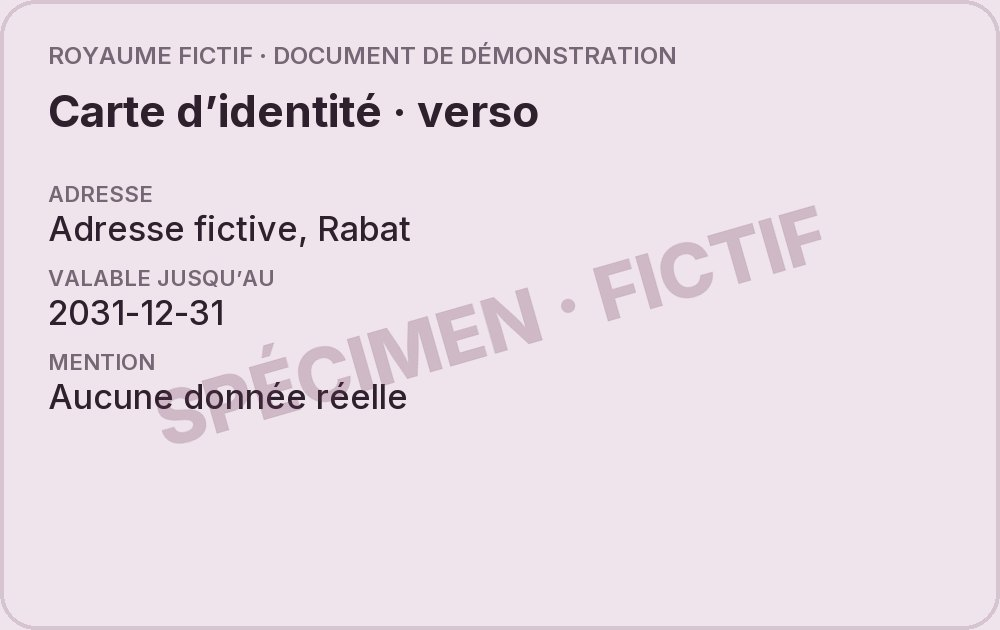
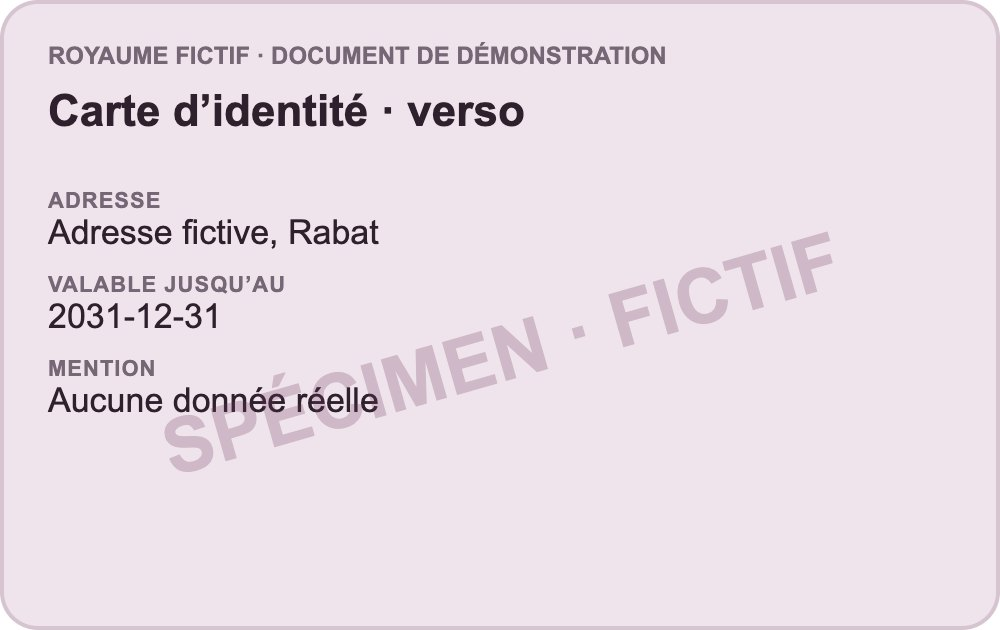
feat(assets): replace AI imagery with original vector art
- Delete the AI illustrations, characters, avatars and car renders; they no
  longer ship in the apps.
- Contextual vector spot illustrations (schedule, verified, support,
  earnings, journey, wallet, drive) and the car in side and top view, in
  theme colours for light and dark.
- Every logo concept gets app icon, horizontal, light, dark and monochrome
  versions.
- Demo identity documents, selfies and vehicle photos are redrawn in vector
  by scripts/generate-fixtures.mjs (replaces the Python script).

diff --git a/packages/assets/src/spots.ts b/packages/assets/src/spots.ts
@@ -1,0 +1,49 @@
+/**
+ * Original vector spot illustrations, one per context. Drawn in-house from simple shapes in the
+ * brand colours, so they follow the theme (light and dark) and contain no generated imagery.
+ */
+export type Spot = 'journey' | 'schedule' | 'verified' | 'support' | 'earnings' | 'wallet' | 'drive' | 'car';
+
+/** Width / height of each spot; the car is wider than the scenes. */
+export const spotAspect = (spot: Spot) => (spot === 'car' ? 320 / 180 : 320 / 240);
+
+const halo = (a: string) =>
+  `<ellipse cx="160" cy="130" rx="132" ry="98" fill="${a}" opacity=".07"/><circle cx="44" cy="62" r="5" fill="${a}" opacity=".25"/><circle cx="282" cy="46" r="4" fill="${a}" opacity=".2"/><circle cx="290" cy="206" r="6" fill="${a}" opacity=".14"/>`;
+
+const scenes: Record<Exclude<Spot, 'car'>, (a: string, s: string) => string> = {
+  // A route on a city map, from a pickup dot to a destination pin.
+  journey: (a, s) =>
+    `<rect x="50" y="46" width="220" height="152" rx="22" fill="${s}" stroke="${a}" stroke-width="4"/><path d="M50 112H270M152 46V198M92 198L152 112L212 46" stroke="${a}" stroke-width="3" opacity=".1"/><path d="M96 166C120 122 168 150 188 114S212 86 226 84" stroke="${a}" stroke-width="5" stroke-linecap="round" stroke-dasharray="2 11" fill="none"/><circle cx="96" cy="166" r="10" fill="${s}" stroke="${a}" stroke-width="5"/><path d="M226 104C214 90 208 81 208 73A18 18 0 0 1 244 73C244 81 238 90 226 104Z" fill="${a}"/><circle cx="226" cy="72" r="6" fill="${s}"/>`,
+  // A calendar with one booked day and a clock: plan a ride ahead.
+  schedule: (a, s) =>
+    `<rect x="72" y="54" width="168" height="150" rx="20" fill="${s}" stroke="${a}" stroke-width="4"/><path d="M72 74A20 20 0 0 1 92 54H220A20 20 0 0 1 240 74V92H72Z" fill="${a}"/><rect x="106" y="40" width="10" height="26" rx="5" fill="${s}" stroke="${a}" stroke-width="4"/><rect x="196" y="40" width="10" height="26" rx="5" fill="${s}" stroke="${a}" stroke-width="4"/>${[104, 136, 168, 200].flatMap((x) => [118, 146, 174].map((y) => (x === 168 && y === 146 ? '' : `<circle cx="${x}" cy="${y}" r="5" fill="${a}" opacity=".18"/>`))).join('')}<circle cx="168" cy="146" r="15" fill="${a}"/><path d="M161 146L166 151L176 140" stroke="${s}" stroke-width="3.5" stroke-linecap="round" stroke-linejoin="round" fill="none"/><circle cx="244" cy="186" r="30" fill="${s}" stroke="${a}" stroke-width="4"/><path d="M244 170V186L255 193" stroke="${a}" stroke-width="4" stroke-linecap="round" stroke-linejoin="round" fill="none"/>`,
+  // An ID card with a shield check: a verified, reviewed account.
+  verified: (a, s) =>
+    `<rect x="50" y="62" width="184" height="122" rx="18" fill="${s}" stroke="${a}" stroke-width="4"/><rect x="70" y="86" width="58" height="72" rx="10" fill="${a}" opacity=".12"/><circle cx="99" cy="111" r="11" fill="${a}"/><path d="M79 148Q99 124 119 148" stroke="${a}" stroke-width="4" stroke-linecap="round" fill="none"/><path d="M146 98H206" stroke="${a}" stroke-width="5" stroke-linecap="round"/><path d="M146 120H190M146 142H198" stroke="${a}" stroke-width="5" stroke-linecap="round" opacity=".3"/><path d="M240 124L276 137V163C276 187 260 203 240 211C220 203 204 187 204 163V137Z" fill="${a}" stroke="${s}" stroke-width="5" stroke-linejoin="round"/><path d="M226 166L236 176L255 155" stroke="${s}" stroke-width="6" stroke-linecap="round" stroke-linejoin="round" fill="none"/>`,
+  // Two speech bubbles and a heart: someone from Naya answers.
+  support: (a, s) =>
+    `<path d="M96 146L88 178L122 146Z" fill="${s}" stroke="${a}" stroke-width="4" stroke-linejoin="round"/><rect x="58" y="56" width="156" height="94" rx="24" fill="${s}" stroke="${a}" stroke-width="4"/><path d="M84 92H186" stroke="${a}" stroke-width="6" stroke-linecap="round" opacity=".35"/><path d="M84 116H150" stroke="${a}" stroke-width="6" stroke-linecap="round" opacity=".35"/><rect x="148" y="120" width="116" height="72" rx="22" fill="${a}"/><path d="M234 190L248 214L210 190Z" fill="${a}"/><circle cx="180" cy="156" r="6" fill="${s}"/><circle cx="206" cy="156" r="6" fill="${s}"/><circle cx="232" cy="156" r="6" fill="${s}"/><path d="M254 82C243 74 236 68 236 60A9 9 0 0 1 254 56A9 9 0 0 1 272 60C272 68 265 74 254 82Z" fill="${a}" opacity=".8"/>`,
+  // Rising bars, a trend arrow and a coin: earnings that add up.
+  earnings: (a, s) =>
+    `<path d="M58 200H262" stroke="${a}" stroke-width="3" stroke-linecap="round" opacity=".25"/><rect x="76" y="152" width="32" height="48" rx="9" fill="${a}" opacity=".22"/><rect x="122" y="126" width="32" height="74" rx="9" fill="${a}" opacity=".42"/><rect x="168" y="98" width="32" height="102" rx="9" fill="${a}" opacity=".68"/><rect x="214" y="66" width="32" height="134" rx="9" fill="${a}"/><path d="M80 128L132 98L176 108L226 50" stroke="${a}" stroke-width="5" stroke-linecap="round" stroke-linejoin="round" fill="none"/><path d="M206 48H228V70" stroke="${a}" stroke-width="5" stroke-linecap="round" stroke-linejoin="round" fill="none"/><circle cx="90" cy="70" r="27" fill="${s}" stroke="${a}" stroke-width="4"/><text x="90" y="77" text-anchor="middle" font-family="Inter,Arial,sans-serif" font-weight="700" font-size="18" fill="${a}">DH</text>`,
+  // A wallet with a card tucked in.
+  wallet: (a, s) =>
+    `<rect x="100" y="50" width="140" height="86" rx="14" fill="${a}" opacity=".22" transform="rotate(-8 170 93)"/><rect x="62" y="88" width="196" height="118" rx="22" fill="${s}" stroke="${a}" stroke-width="4"/><path d="M62 118H258" stroke="${a}" stroke-width="3" opacity=".15"/><rect x="178" y="128" width="80" height="44" rx="14" fill="${a}"/><circle cx="202" cy="150" r="7" fill="${s}"/>`,
+  // A steering wheel: she drives, on her own schedule.
+  drive: (a, s) =>
+    `<circle cx="160" cy="124" r="66" fill="${s}" stroke="${a}" stroke-width="12"/><path d="M96 124H144M176 124H224M160 140V188" stroke="${a}" stroke-width="12" stroke-linecap="round"/><circle cx="160" cy="124" r="17" fill="${a}"/><path d="M60 214H260" stroke="${a}" stroke-width="4" stroke-linecap="round" stroke-dasharray="18 14" opacity=".3"/>`,
+};
+
+/** Side view of the Naya car (vector). */
+export const vehicleSvg = (a: string, s: string) =>
+  `<svg xmlns="http://www.w3.org/2000/svg" viewBox="0 0 320 180"><path d="M23 143H299" stroke="${a}" opacity=".18" stroke-width="3"/><path d="M43 120V95Q43 86 60 83L88 50Q92 43 106 43H212Q225 43 234 55L257 84Q281 87 283 100V120Z" fill="${s}" stroke="${a}" stroke-width="5" stroke-linejoin="round"/><path d="M103 53H150V80H81ZM163 53H209L230 80H163Z" fill="${a}" opacity=".2"/><path d="M56 103H72M258 103H274M162 89V116M129 92H143M206 92H220" stroke="${a}" stroke-width="4" stroke-linecap="round"/><circle cx="94" cy="121" r="21" fill="${s}" stroke="${a}" stroke-width="5"/><circle cx="236" cy="121" r="21" fill="${s}" stroke="${a}" stroke-width="5"/><circle cx="94" cy="121" r="8" fill="${a}"/><circle cx="236" cy="121" r="8" fill="${a}"/></svg>`;
+
+/** Top view of the car, for map markers (30 × 56). */
+export const carTopSvg = (a: string, s: string) =>
+  `<svg xmlns="http://www.w3.org/2000/svg" viewBox="0 0 30 56"><rect x="3" y="2" width="24" height="52" rx="8" fill="${s}" stroke="${a}" stroke-width="3"/><path d="M7 16H23L21 25H9ZM9 35H21L23 44H7Z" fill="${a}"/></svg>`;
+export const carTopAspect = 30 / 56;
+
+export function spotSvg(spot: Spot, accent: string, surface: string) {
+  if (spot === 'car') return vehicleSvg(accent, surface);
+  return `<svg xmlns="http://www.w3.org/2000/svg" viewBox="0 0 320 240">${halo(accent)}${scenes[spot](accent, surface)}</svg>`;
+}

diff --git a/packages/assets/src/concepts.ts b/packages/assets/src/concepts.ts
@@ -59,11 +59,15 @@ export function conceptSvg(
     );
   return `<svg xmlns="http://www.w3.org/2000/svg" viewBox="0 0 ${horizontal ? 260 : 100} 100"><rect width="${horizontal ? 260 : 100}" height="100" rx="22" fill="${background}"/>${symbol}${horizontal ? `<text x="110" y="66" font-family="Inter,Arial,sans-serif" font-weight="600" font-size="46" letter-spacing="-2" fill="${color}">naya</text>` : ''}</svg>`;
 }
-export const vehicleSvg = (color: string, surface: string) =>
-  `<svg xmlns="http://www.w3.org/2000/svg" viewBox="0 0 320 180"><path d="M23 143H299" stroke="${color}" opacity=".18" stroke-width="3"/><path d="M43 120V95Q43 86 60 83L88 50Q92 43 106 43H212Q225 43 234 55L257 84Q281 87 283 100V120Z" fill="${surface}" stroke="${color}" stroke-width="5" stroke-linejoin="round"/><path d="M103 53H150V80H81ZM163 53H209L230 80H163Z" fill="${color}" opacity=".2"/><path d="M56 103H72M258 103H274M162 89V116M129 92H143M206 92H220" stroke="${color}" stroke-width="4" stroke-linecap="round"/><circle cx="94" cy="121" r="21" fill="${surface}" stroke="${color}" stroke-width="5"/><circle cx="236" cy="121" r="21" fill="${surface}" stroke="${color}" stroke-width="5"/><circle cx="94" cy="121" r="8" fill="${color}"/><circle cx="236" cy="121" r="8" fill="${color}"/></svg>`;
-export const journeySvg = (
-  color: string,
-  surface: string,
-  kind: 'journey' | 'identity' | 'wallet',
-) =>
-  `<svg xmlns="http://www.w3.org/2000/svg" viewBox="0 0 320 240"><circle cx="160" cy="125" r="91" fill="${color}" opacity=".07"/><path d="M62 185C20 136 97 154 115 106S228 28 269 89" stroke="${color}" stroke-width="3" stroke-dasharray="6 9" fill="none" opacity=".4"/><rect x="103" y="42" width="116" height="174" rx="23" fill="${surface}" stroke="${color}" stroke-width="4"/><path d="M141 58H181" stroke="${color}" stroke-width="4" stroke-linecap="round"/>${kind === 'identity' ? `<rect x="122" y="91" width="79" height="71" rx="10" fill="${color}" opacity=".12"/><circle cx="147" cy="116" r="11" fill="${color}"/><path d="M130 141Q147 120 164 141M175 114H189M175 128H189" stroke="${color}" stroke-width="4" fill="none"/>` : kind === 'wallet' ? `<rect x="121" y="94" width="91" height="62" rx="10" fill="${surface}" stroke="${color}" stroke-width="4"/><path d="M180 112H212V138H180Z" fill="${color}"/><circle cx="191" cy="125" r="3" fill="${surface}"/>` : `<path d="M134 160C112 134 172 147 157 106S193 84 191 88" stroke="${color}" stroke-width="5" fill="none" stroke-linecap="round"/><circle cx="134" cy="160" r="8" fill="${color}"/><path d="M184 88L191 68L198 88Z" fill="${color}"/>`}<circle cx="161" cy="194" r="7" fill="${color}" opacity=".2"/></svg>`;
+
+/** Every version a concept needs: app icon, horizontal, light and dark backgrounds, monochrome. */
+export function conceptVariants(id: ConceptId) {
+  return [
+    { key: 'icon', label: 'Icône d’application', svg: conceptSvg(id, '#FFFFFF', false, '#6B3657'), horizontal: false },
+    { key: 'horizontal', label: 'Logo horizontal', svg: conceptSvg(id, '#6B3657', true, '#FAF6F2'), horizontal: true },
+    { key: 'light', label: 'Fond clair', svg: conceptSvg(id, '#6B3657', false, '#FAF6F2'), horizontal: false },
+    { key: 'dark', label: 'Fond sombre', svg: conceptSvg(id, '#E5B6D4', false, '#231D28'), horizontal: false },
+    { key: 'mono-black', label: 'Monochrome noir', svg: conceptSvg(id, '#111111', false, '#FFFFFF'), horizontal: false },
+    { key: 'mono-white', label: 'Monochrome blanc', svg: conceptSvg(id, '#FFFFFF', false, '#111111'), horizontal: false },
+  ] as const;
+}

diff --git a/packages/assets/src/images.ts b/packages/assets/src/images.ts
@@ -1,45 +1,31 @@
-/* Transparent raster artwork supplied with the Figma handoff (resized, alpha preserved). */
+import type { Spot } from './spots';
+
+/** Contextual vector illustrations (see spots.ts). Names kept so screens read the same. */
 export const illustrations = {
-  passengerWelcome: require('../illustrations/naya-passagere-bienvenue.png'),
-  passengerPlanning: require('../illustrations/naya-passagere-planification.png'),
-  passengerIdentity: require('../illustrations/naya-passagere-identite.png'),
-  driverWelcome: require('../illustrations/naya-chauffeuse-bienvenue.png'),
-  driverWallet: require('../illustrations/naya-chauffeuse-portefeuille.png'),
-} as const;
+  passengerWelcome: 'journey',
+  passengerPlanning: 'schedule',
+  passengerIdentity: 'verified',
+  passengerSupport: 'support',
+  driverWelcome: 'drive',
+  driverWallet: 'wallet',
+  driverEarnings: 'earnings',
+  driverSupport: 'support',
+} as const satisfies Record<string, Spot>;
 
-/** Original Naya Signature car. Colour variants do not imply a fare tier. */
-export const cars = {
-  pearl: require('../cars/naya-signature-pearl.png'),
-  plum: require('../cars/naya-signature-plum.png'),
-  pearlSmall: require('../cars/naya-signature-pearl-small.png'),
-  plumSmall: require('../cars/naya-signature-plum-small.png'),
-  top: require('../cars/naya-signature-top.png'),
-} as const;
-
-export const characters = {
-  salmaPortrait: require('../characters/salma-portrait.png'),
-  salmaStanding: require('../characters/salma-debout.png'),
-  salmaSeated: require('../characters/salma-assise.png'),
-  salmaWaving: require('../characters/salma-saluer.png'),
-  salmaPhone: require('../characters/salma-telephone.png'),
-  aminaPortrait: require('../characters/amina-portrait.png'),
-  aminaStanding: require('../characters/amina-debout.png'),
-  aminaSeated: require('../characters/amina-assise.png'),
-  aminaWaving: require('../characters/amina-saluer.png'),
-  aminaPhone: require('../characters/amina-telephone.png'),
-} as const;
-
-/** Square head-and-shoulders crops of the portraits, for 32–56 pt avatars. */
-export const avatars = {
-  salma: require('../avatars/salma.jpg'),
-  amina: require('../avatars/amina.jpg'),
-} as const;
+/** The Naya car, drawn in vector. */
+export const cars = { side: 'car' } as const satisfies Record<string, Spot>;
 
 /** Width / height of each artwork, so layouts reserve the right box and never stretch. */
 export const aspect = {
-  illustration: 1080 / 810,
-  car: 1080 / 610,
-  carSmall: 420 / 237,
-  carTop: 103 / 192,
-  portrait: 360 / 620,
+  illustration: 320 / 240,
+  carSmall: 320 / 180,
 } as const;
+
+/** Full-bleed onboarding photos (Pexels licence, see photos/CREDITS.md). */
+export const photos = {
+  onboardingRide: require('../photos/onboarding-ride.jpg'),
+  onboardingFriends: require('../photos/onboarding-friends.jpg'),
+  onboardingFamily: require('../photos/onboarding-family.jpg'),
+  onboardingDriver: require('../photos/onboarding-driver.jpg'),
+  onboardingDriver2: require('../photos/onboarding-driver-2.jpg'),
+};

diff --git a/packages/ui/src/Brand.tsx b/packages/ui/src/Brand.tsx
@@ -3,7 +3,7 @@ import { useTheme } from './core/theme';
 import { View, type StyleProp, type ViewStyle } from 'react-native';
 import { SvgXml } from 'react-native-svg';
 import { Image } from 'expo-image';
-import { journeySvg, vehicleSvg, illustrations, cars, brandAspect, brandSvg, type BrandMark as Mark } from '@naya/assets';
+import { spotSvg, spotAspect, brandAspect, brandSvg, type BrandMark as Mark, type Spot } from '@naya/assets';
 import { colors } from '@naya/tokens';
 import { Text } from './Text';
 
@@ -17,12 +17,12 @@ export function BrandMark({ mark = 'lockup', height = 28, style }: { mark?: Mark
   );
 }
 
-/** Transparent raster art at its own aspect ratio; never stretched or cropped. */
-export function Illustration({ source, aspect, width, maxHeight, label, style }: { source: number; aspect: number; width?: number | `${number}%`; maxHeight?: number; label?: string; style?: StyleProp<ViewStyle> }) {
+/** Original vector illustration in the theme colours, at its own aspect ratio. */
+export function Illustration({ source, aspect, width, maxHeight, label, style }: { source: Spot; aspect?: number; width?: number | `${number}%`; maxHeight?: number; label?: string; style?: StyleProp<ViewStyle> }) {
   useTheme();
   return (
-    <View style={[{ width: width ?? '100%', aspectRatio: aspect, maxHeight, alignSelf: 'center' }, style]} accessible={!!label} accessibilityRole={label ? 'image' : undefined} accessibilityLabel={label}>
-      <SvgXml xml={Object.values(cars).includes(source) ? vehicleSvg(colors.accent, colors.surface) : journeySvg(colors.accent, colors.surface, source === illustrations.passengerIdentity ? 'identity' : source === illustrations.driverWallet ? 'wallet' : 'journey')} width="100%" height="100%" />
+    <View style={[{ width: width ?? '100%', aspectRatio: aspect ?? spotAspect(source), maxHeight, alignSelf: 'center' }, style]} accessible={!!label} accessibilityRole={label ? 'image' : undefined} accessibilityLabel={label}>
+      <SvgXml xml={spotSvg(source, colors.accent, colors.surface)} width="100%" height="100%" />
     </View>
   );
 }

diff --git a/packages/ui/src/features/brand.tsx b/packages/ui/src/features/brand.tsx
@@ -1,6 +1,6 @@
 import { View } from 'react-native';
 import { SvgXml } from 'react-native-svg';
-import { logoConcepts, conceptSvg } from '@naya/assets';
+import { logoConcepts, conceptSvg, conceptVariants } from '@naya/assets';
 import { colors } from '@naya/tokens';
 import { useTheme } from '../core/theme';
 import { Screen } from '../Screen';
@@ -43,19 +43,13 @@ export function BrandConceptsScreen({ onBack }: { onBack: () => void }) {
                 height={70}
               />
             </View>
-            <View
-              style={{
-                alignSelf: 'flex-start',
-                backgroundColor: '#231D28',
-                padding: 10,
-                borderRadius: 18,
-              }}
-            >
-              <SvgXml
-                xml={conceptSvg(c.id, '#E5B6D4', false, '#231D28')}
-                width={52}
-                height={52}
-              />
+            <View style={{ flexDirection: 'row', flexWrap: 'wrap', gap: 10 }}>
+              {conceptVariants(c.id).filter((v) => !v.horizontal).map((v) => (
+                <View key={v.key} style={{ alignItems: 'center', gap: 4, width: 64 }}>
+                  <SvgXml xml={v.svg} width={52} height={52} />
+                  <Text tone="muted" align="center" style={{ fontSize: 10, lineHeight: 13 }}>{v.label}</Text>
+                </View>
+              ))}
             </View>
           </View>
         ))}

diff --git a/packages/ui/src/map/Markers.tsx b/packages/ui/src/map/Markers.tsx
@@ -2,7 +2,7 @@ import { useTheme } from './../core/theme';
 import { View } from 'react-native';
 import { SvgXml } from 'react-native-svg';
 import { MapPin } from 'lucide-react-native';
-import { aspect } from '@naya/assets';
+import { carTopAspect, carTopSvg } from '@naya/assets';
 import { colors } from '@naya/tokens';
 import { Text } from '../Text';
 import type { MapMarker } from './types';
@@ -11,8 +11,8 @@ export function MarkerView({ marker }: { marker: MapMarker }) {
   useTheme();
   if (marker.kind === 'driver') {
     return (
-      <View accessibilityLabel={marker.label ?? 'Voiture de la chauffeuse'} style={{ width: 30, height: 30 / aspect.carTop, transform: [{ rotate: `${marker.heading ?? 0}deg` }] }}>
-        <SvgXml xml={`<svg xmlns="http://www.w3.org/2000/svg" viewBox="0 0 30 56"><rect x="3" y="2" width="24" height="52" rx="8" fill="${colors.surface}" stroke="${colors.accent}" stroke-width="3"/><path d="M7 16H23L21 25H9ZM9 35H21L23 44H7Z" fill="${colors.accent}"/></svg>`} width="100%" height="100%" />
+      <View accessibilityLabel={marker.label ?? 'Voiture de la chauffeuse'} style={{ width: 30, height: 30 / carTopAspect, transform: [{ rotate: `${marker.heading ?? 0}deg` }] }}>
+        <SvgXml xml={carTopSvg(colors.accent, colors.surface)} width="100%" height="100%" />
       </View>
     );
   }

diff --git a/apps/passenger/src/app/(verify)/verification-status.tsx b/apps/passenger/src/app/(verify)/verification-status.tsx
@@ -45,7 +45,7 @@ export default function Status() {
     return (
       <Screen testID="status-approved" header={<Header title="Dossier approuvé" subtitle="Votre identité a été vérifiée." />} footer={<Button label="Commencer" size="major" full onPress={() => { haptic.success(); qc.invalidateQueries({ queryKey: qk.me(a) }); }} testID="start-app" />}>
         <View style={{ gap: 16, marginTop: 12 }}>
-          <Illustration source={illustrations.passengerWelcome} aspect={aspect.illustration} width="78%" maxHeight={240} />
+          <Illustration source={illustrations.passengerIdentity} aspect={aspect.illustration} width="78%" maxHeight={240} />
           <StatusHero tone="success" Icon={BadgeCheck} title="Bienvenue sur Naya" message={c.decision?.message ?? 'Vous pouvez réserver votre première course.'} />
         </View>
       </Screen>

diff --git a/packages/ui/src/Feedback.tsx b/packages/ui/src/Feedback.tsx
@@ -1,3 +1,4 @@
+import type { Spot } from '@naya/assets';
 import { themedStyles , colors, radius } from '@naya/tokens';
 import { useTheme } from './core/theme';
 import { useEffect, useRef, type ReactNode } from 'react';
@@ -77,14 +78,14 @@ export function StatusPill({ tone = 'neutral', label, testID }: { tone?: BannerT
 export interface EmptyStateProps {
   title: string;
   message?: string;
-  image?: number;
+  image?: Spot;
   imageAspect?: number;
   action?: { label: string; onPress: () => void };
   testID?: string;
 }
 
 /** One sentence and one move. */
-export function EmptyState({ title, message, image, imageAspect = 4 / 3, action, testID }: EmptyStateProps) {
+export function EmptyState({ title, message, image, imageAspect, action, testID }: EmptyStateProps) {
   useTheme();
   return (
     <View testID={testID} style={styles.empty}>

diff --git a/apps/passenger/src/app/(app)/support/index.tsx b/apps/passenger/src/app/(app)/support/index.tsx
@@ -4,5 +4,5 @@ import { TicketListScreen } from '@naya/ui';
 import { useAccountId } from '@/lib/queries';
 
 export default function SupportList() {
-  return <TicketListScreen accountId={useAccountId()} onBack={() => router.back()} onOpen={(id) => router.push({ pathname: '/support/[id]', params: { id } })} onCreate={(category) => router.push(category ? { pathname: '/support/new', params: { category } } : '/support/new')} emptyImage={illustrations.passengerPlanning} />;
+  return <TicketListScreen accountId={useAccountId()} onBack={() => router.back()} onOpen={(id) => router.push({ pathname: '/support/[id]', params: { id } })} onCreate={(category) => router.push(category ? { pathname: '/support/new', params: { category } } : '/support/new')} emptyImage={illustrations.passengerSupport} />;
 }

diff --git a/apps/driver/src/app/(app)/support/index.tsx b/apps/driver/src/app/(app)/support/index.tsx
@@ -6,5 +6,5 @@ import { useAccountId } from '@/lib/queries';
 /** D18 · list */
 export default function Support() {
   const a = useAccountId();
-  return <TicketListScreen accountId={a} onBack={() => router.back()} onOpen={(id) => router.push({ pathname: '/support/[id]', params: { id } })} onCreate={(category) => router.push(category ? { pathname: '/support/new', params: { category } } : '/support/new')} emptyImage={illustrations.driverWallet} />;
+  return <TicketListScreen accountId={a} onBack={() => router.back()} onOpen={(id) => router.push({ pathname: '/support/[id]', params: { id } })} onCreate={(category) => router.push(category ? { pathname: '/support/new', params: { category } } : '/support/new')} emptyImage={illustrations.driverSupport} />;
 }

diff --git a/apps/driver/src/app/(app)/(tabs)/earnings.tsx b/apps/driver/src/app/(app)/(tabs)/earnings.tsx
@@ -36,7 +36,7 @@ export default function Earnings() {
             <Money amount={0} variant="display" />
             <Text variant="label" weight="semibold">Aucune course sur cette période</Text>
             <Text variant="caption" tone="muted" align="center">Passez en ligne pour recevoir des propositions.</Text>
-            <Illustration source={illustrations.driverWallet} aspect={aspect.illustration} width="78%" maxHeight={220} />
+            <Illustration source={illustrations.driverEarnings} aspect={aspect.illustration} width="78%" maxHeight={220} />
           </View>
         ) : null}
         {e && e.rideCount > 0 ? (

diff --git a/packages/ui/src/Ride.tsx b/packages/ui/src/Ride.tsx
@@ -172,7 +172,7 @@ export function FareBreakdown({ fare, distanceMeters, durationSeconds, dynamicRe
 
 export function VehicleImage({ color, width = 132 }: { color: string; width?: number }) {
   useTheme();
-  return <Illustration source={cars.pearlSmall} width={width} aspect={aspect.carSmall} label={`Véhicule ${color}`} />;
+  return <Illustration source={cars.side} width={width} aspect={aspect.carSmall} label={`Véhicule ${color}`} />;
 }
 
 /** Portrait avatars exist only for the illustrated demo characters. */
